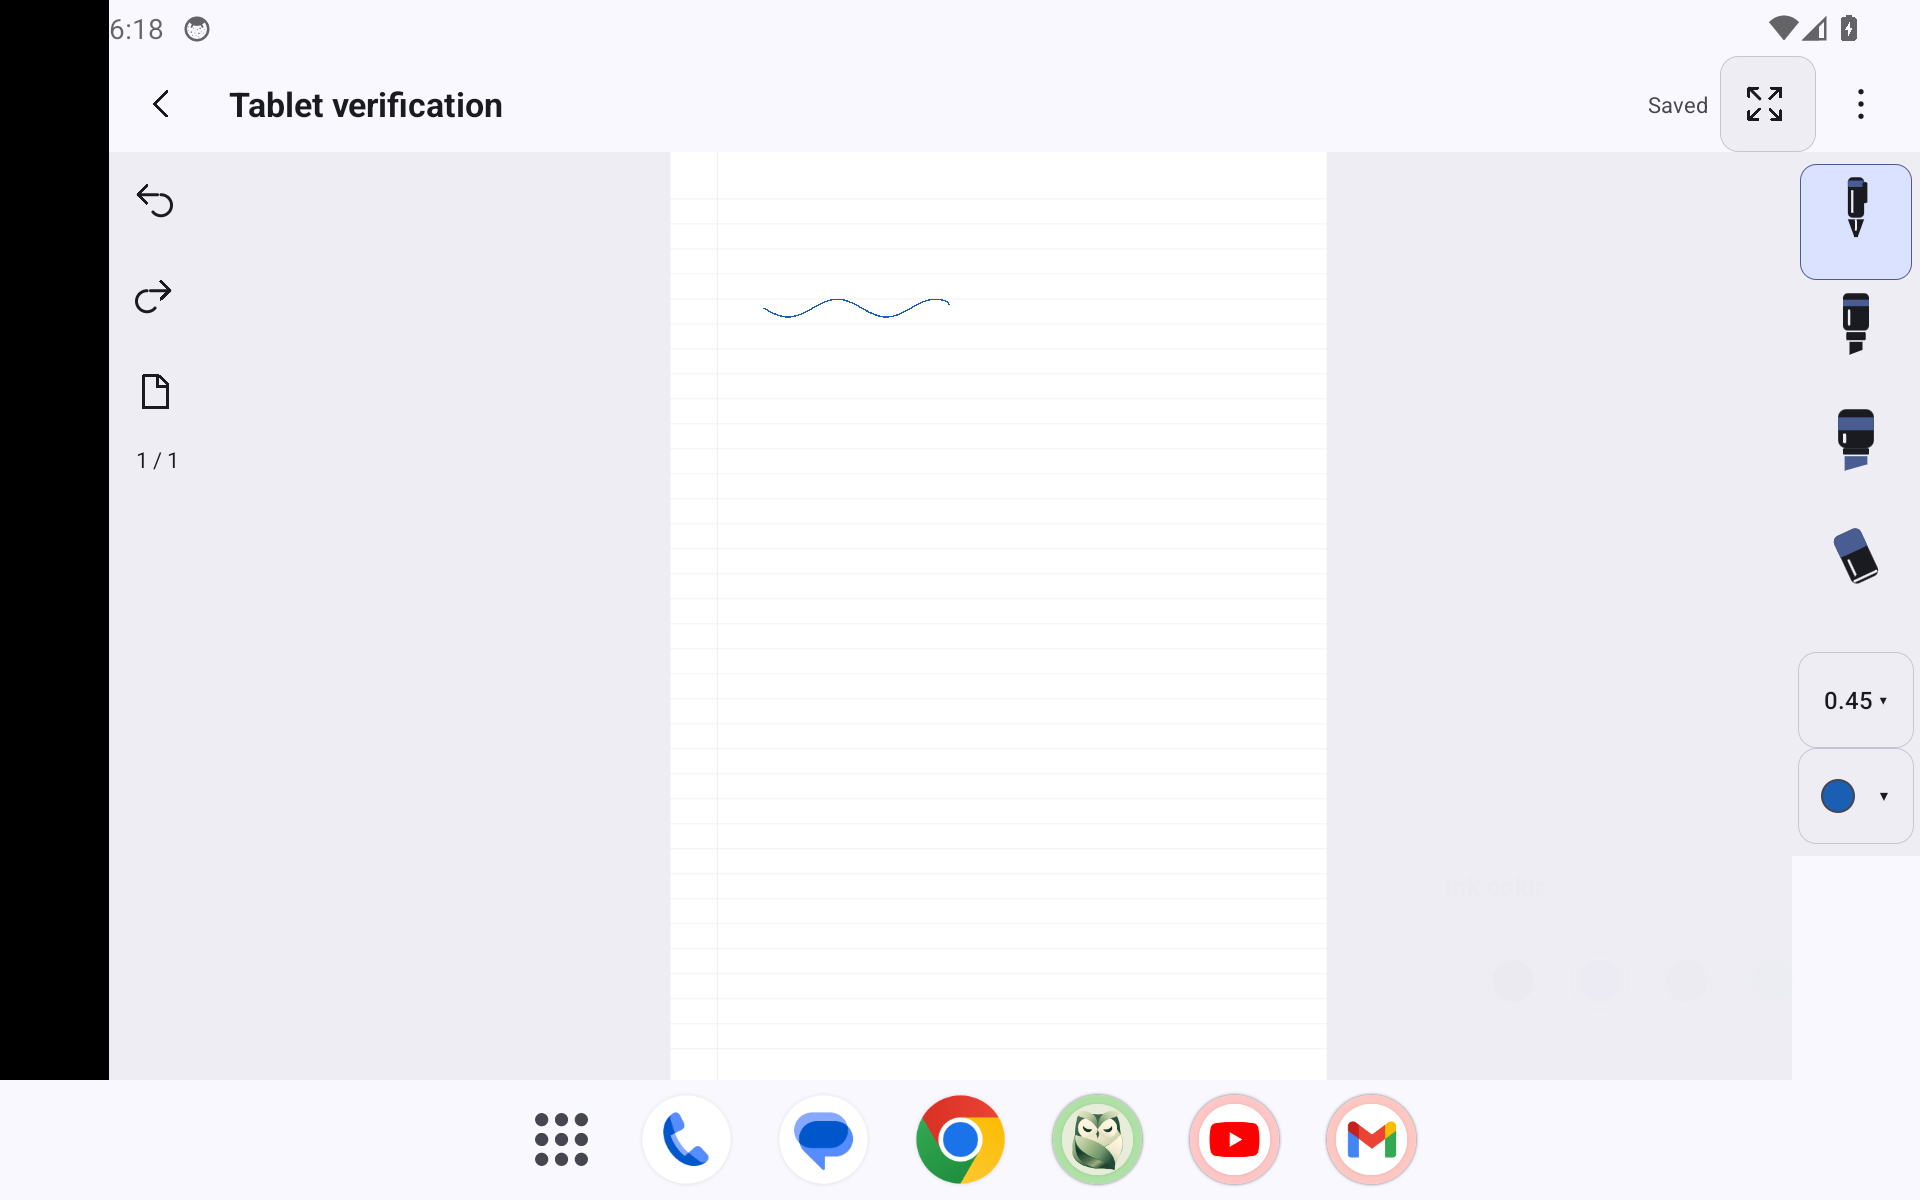
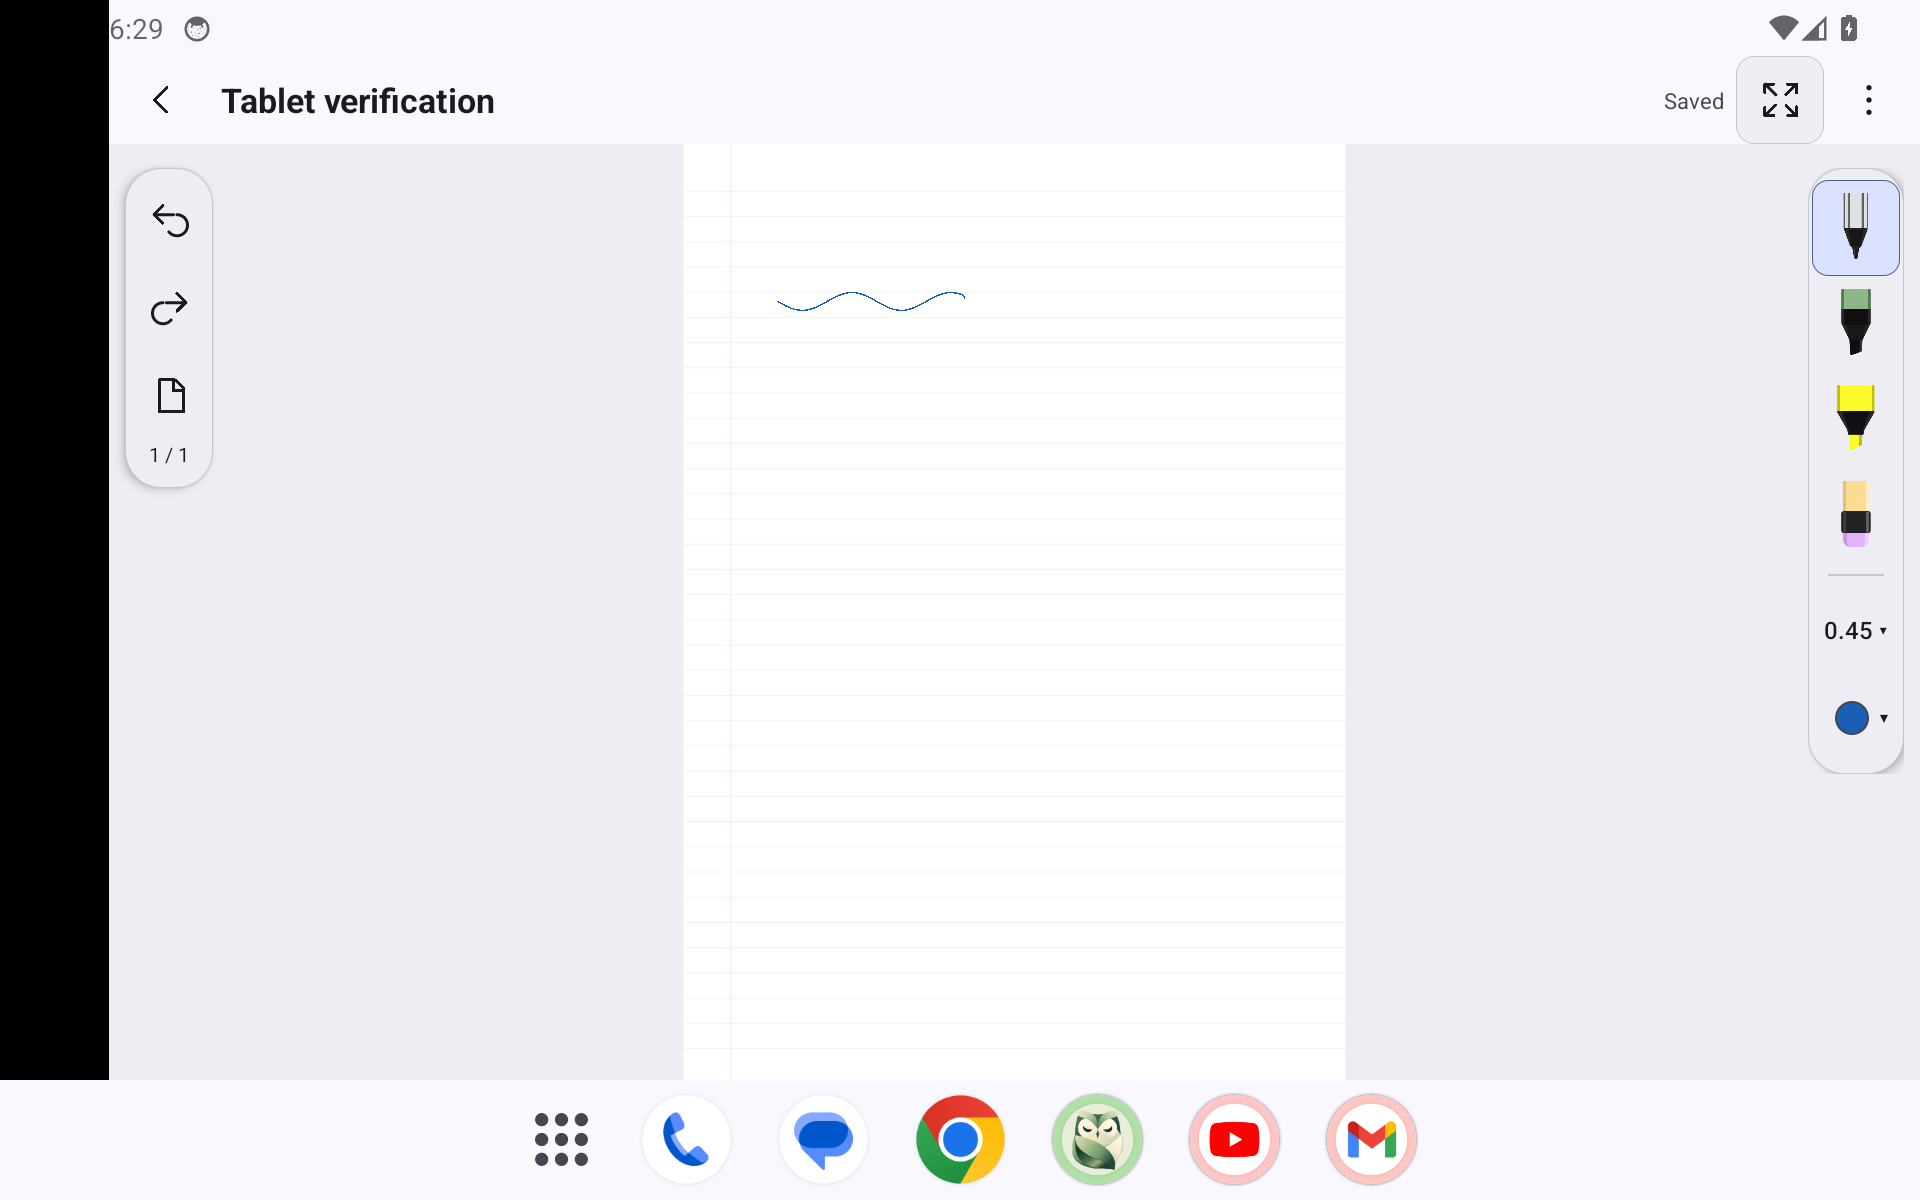
Use generated tool tips in compact floating trays

diff --git a/app/src/main/java/com/weave/notebook/ui/EditorActivity.kt b/app/src/main/java/com/weave/notebook/ui/EditorActivity.kt
@@ -110,24 +110,32 @@ class EditorActivity: AppCompatActivity() {
         header.addView(sideAction(if(fullscreen)"Exit fullscreen" else "Fullscreen") {toggleFullscreen()})
         header.addView(sideAction("⋮") {moreOptions()})
         root.addView(header)
-        val workspace=NativeUi.row(this).apply {gravity=Gravity.TOP}
-        val left=NativeUi.column(this).apply {gravity=Gravity.CENTER_HORIZONTAL;setBackgroundColor(NativeUi.SURFACE)}
+        val workspace=FrameLayout(this)
+        canvas=InkCanvasView(this)
+        workspace.addView(canvas,FrameLayout.LayoutParams(-1,-1))
+        val left=NativeUi.column(this).apply {
+            gravity=Gravity.CENTER_HORIZONTAL;setPadding(0,dp(4),0,dp(4))
+            background=NativeUi.rounded(NativeUi.SURFACE,dp(18).toFloat(),NativeUi.LINE);elevation=dp(3).toFloat()
+        }
         undo=sideAction("↶ Undo") {undo()};redo=sideAction("↷ Redo") {redo()}
         left.addView(undo);left.addView(redo)
         left.addView(sideAction("Pages") {pagesExpanded=!pagesExpanded;pageScroll.visibility=if(pagesExpanded)View.VISIBLE else View.GONE})
-        pageLabel=NativeUi.text(this,"",11f).apply {gravity=Gravity.CENTER;setPadding(0,dp(2),0,dp(8))}
+        pageLabel=NativeUi.text(this,"",10f).apply {gravity=Gravity.CENTER;setPadding(0,0,0,dp(6))}
         left.addView(pageLabel)
-        workspace.addView(left,LinearLayout.LayoutParams(dp(48),-1))
+        workspace.addView(left,FrameLayout.LayoutParams(dp(44),-2,Gravity.TOP or Gravity.START).apply {leftMargin=dp(8);topMargin=dp(12)})
         pageRail=NativeUi.column(this).apply {setPadding(dp(6),dp(6),dp(6),dp(6))}
-        pageScroll=ScrollView(this).apply {addView(pageRail);setBackgroundColor(NativeUi.SURFACE);visibility=if(pagesExpanded)View.VISIBLE else View.GONE}
-        workspace.addView(pageScroll,LinearLayout.LayoutParams(dp(100),-1))
-        canvas=InkCanvasView(this)
-        workspace.addView(canvas,LinearLayout.LayoutParams(0,-1,1f))
+        pageScroll=ScrollView(this).apply {addView(pageRail);background=NativeUi.rounded(NativeUi.SURFACE,dp(12).toFloat(),NativeUi.LINE);elevation=dp(3).toFloat();visibility=if(pagesExpanded)View.VISIBLE else View.GONE}
+        workspace.addView(pageScroll,FrameLayout.LayoutParams(dp(100),-1,Gravity.TOP or Gravity.START).apply {leftMargin=dp(58);topMargin=dp(12);bottomMargin=dp(12)})
         tools=NativeUi.column(this).apply {gravity=Gravity.CENTER_HORIZONTAL}
         options=NativeUi.column(this).apply {gravity=Gravity.CENTER_HORIZONTAL}
-        val right=NativeUi.column(this).apply {gravity=Gravity.CENTER_HORIZONTAL;setPadding(0,dp(6),0,dp(6));setBackgroundColor(NativeUi.SURFACE)}
-        right.addView(tools);right.addView(View(this),LinearLayout.LayoutParams(-1,dp(12)));right.addView(options)
-        workspace.addView(ScrollView(this).apply {isVerticalScrollBarEnabled=false;addView(right)},LinearLayout.LayoutParams(dp(64),-1))
+        val right=NativeUi.column(this).apply {
+            gravity=Gravity.CENTER_HORIZONTAL;setPadding(dp(2),dp(6),dp(2),dp(6))
+            background=NativeUi.rounded(NativeUi.SURFACE,dp(18).toFloat(),NativeUi.LINE);elevation=dp(3).toFloat()
+        }
+        right.addView(tools)
+        right.addView(View(this).apply {setBackgroundColor(NativeUi.LINE)},LinearLayout.LayoutParams(dp(28),dp(1)).apply {topMargin=dp(5);bottomMargin=dp(5)})
+        right.addView(options)
+        workspace.addView(ScrollView(this).apply {isVerticalScrollBarEnabled=false;clipToPadding=false;addView(right)},FrameLayout.LayoutParams(dp(48),-2,Gravity.TOP or Gravity.END).apply {rightMargin=dp(8);topMargin=dp(12);bottomMargin=dp(12)})
         root.addView(workspace,LinearLayout.LayoutParams(-1,0,1f))
         stripBox=NativeUi.column(this).apply {background=NativeUi.rounded(NativeUi.SURFACE);visibility=if(stripVisible) View.VISIBLE else View.GONE}
         val stripActions=NativeUi.row(this)
@@ -168,7 +176,7 @@ class EditorActivity: AppCompatActivity() {
         tools.removeAllViews()
         ToolKind.entries.filter {it!=ToolKind.HAND}.forEach { t->
             val label=when(t) {ToolKind.PEN->"Pen";ToolKind.MARKER->"Marker";ToolKind.HIGHLIGHTER->"Highlighter";ToolKind.ERASER->"Eraser";ToolKind.HAND->"Hand"}
-            tools.addView(NativeUi.tool(this,label,t==tool) {selectTool(t)}.apply {text="";compoundDrawablePadding=0;layoutParams=LinearLayout.LayoutParams(dp(56),dp(58));setOnLongClickListener {selectTool(t);toolOptions();true}})
+            tools.addView(NativeUi.tool(this,label,t==tool) {selectTool(t)}.apply {text="";compoundDrawablePadding=0;layoutParams=LinearLayout.LayoutParams(dp(44),dp(48));setOnLongClickListener {selectTool(t);toolOptions();true}})
         }
         brush=when(tool) {ToolKind.MARKER->BrushKind.MARKER;ToolKind.HIGHLIGHTER->BrushKind.HIGHLIGHTER;ToolKind.ERASER->BrushKind.ERASER;else->BrushKind.PEN}
         strokeWidth=prefs.getFloat("width.$brush",BrushCatalog.defaultWidth(brush))
@@ -176,7 +184,7 @@ class EditorActivity: AppCompatActivity() {
         options.removeAllViews()
         options.addView(NativeUi.button(this,"${formatWidth(strokeWidth)} ▾") {toolOptions()}.apply {
             contentDescription="Thickness, ${formatWidth(strokeWidth)} millimetres";textSize=12f;setPadding(0,0,0,0)
-            layoutParams=LinearLayout.LayoutParams(dp(58),dp(48));tooltipText="Thickness"
+            background=android.graphics.drawable.ColorDrawable(Color.TRANSPARENT);layoutParams=LinearLayout.LayoutParams(dp(44),dp(44));tooltipText="Thickness"
         })
         if(brush!=BrushKind.ERASER) options.addView(NativeUi.button(this,"▾") {colorOptions()}.apply {
             contentDescription="Ink color";textSize=14f;setPadding(dp(8),0,dp(4),0)
@@ -190,7 +198,7 @@ class EditorActivity: AppCompatActivity() {
                 @Deprecated("Deprecated in Android") override fun getOpacity()=android.graphics.PixelFormat.TRANSLUCENT
             }.apply {setBounds(0,0,dp(24),dp(24))}
             setCompoundDrawables(chip,null,null,null);compoundDrawablePadding=0
-            layoutParams=LinearLayout.LayoutParams(dp(58),dp(48));tooltipText="Ink color"
+            background=android.graphics.drawable.ColorDrawable(Color.TRANSPARENT);layoutParams=LinearLayout.LayoutParams(dp(44),dp(44));tooltipText="Ink color"
         })
         applyTool()
     }
@@ -272,7 +280,7 @@ class EditorActivity: AppCompatActivity() {
         };dialog.show()
     }
     private fun viewChanged() {canvas.invalidate();rememberViewport()}
-    private fun compact(button:Button):Button = button.apply {text="";compoundDrawablePadding=0;setPadding(dp(12),0,dp(12),0);layoutParams=LinearLayout.LayoutParams(dp(48),dp(48))}
+    private fun compact(button:Button):Button = button.apply {text="";compoundDrawablePadding=0;setPadding(dp(12),0,dp(12),0);layoutParams=LinearLayout.LayoutParams(dp(44),dp(44))}
     private fun sideAction(label:String,click:()->Unit)=compact(NativeUi.button(this,label,click=click))
     private fun toggleFullscreen() {
         canvas.cancelWork();strip.cancelWork();rememberViewport();saveGuard()
@@ -332,7 +340,7 @@ class EditorActivity: AppCompatActivity() {
             row.contentDescription="Width ${formatWidth(w)} mm";row.isSelected=w==strokeWidth
             row.setOnClickListener {prefs.edit().putFloat("width.$brush",w).apply();renderTools();dialog.dismiss()}
             content.addView(row,LinearLayout.LayoutParams(-1,dp(52)).apply {bottomMargin=dp(4)})
-        };dialog.showAsDropDown(options,dp(58)-dp(260),0,Gravity.START)
+        };dialog.showAsDropDown(options,dp(44)-dp(260),0,Gravity.START)
     }
     private fun colorOptions() {
         canvas.cancelWork();strip.cancelWork()
@@ -341,7 +349,7 @@ class EditorActivity: AppCompatActivity() {
         val row=NativeUi.row(this).apply {gravity=Gravity.CENTER;setPadding(dp(16),dp(16),dp(16),dp(16))}
         val dialog=palette("Ink color",row)
         colors.forEachIndexed {i,c->row.addView(NativeUi.dot(this,names[i],c,12,c==color) {prefs.edit().putInt("color.$brush",c).apply();renderTools();dialog.dismiss()})}
-        dialog.showAsDropDown(options,dp(58)-dp(260),0,Gravity.START)
+        dialog.showAsDropDown(options,dp(44)-dp(260),0,Gravity.START)
     }
     private fun palette(title:String,content:View):PopupWindow {
         val panel=NativeUi.column(this).apply {

diff --git a/app/src/main/java/com/weave/notebook/ui/NativeUi.kt b/app/src/main/java/com/weave/notebook/ui/NativeUi.kt
@@ -77,7 +77,12 @@ object NativeUi {
     }
     fun tool(c:Context,label:String,selected:Boolean,click:()->Unit)=button(c,label,selected,click).apply {
         text=label;textSize=if(c.resources.configuration.screenWidthDp<700)9f else 10f;maxLines=1;setPadding(c.dp(1),c.dp(5),c.dp(1),c.dp(4))
-        val icon=if(label in setOf("Pen","Marker","Highlighter","Eraser")) WritingToolDrawable(label,c.dp(26)).apply {setBounds(0,0,c.dp(26),c.dp(34))}
+        val icon=if(label in setOf("Pen","Marker","Highlighter","Eraser")) androidx.core.content.ContextCompat.getDrawable(c,when(label) {
+            "Pen"->com.weave.notebook.R.drawable.writing_pen
+            "Marker"->com.weave.notebook.R.drawable.writing_marker
+            "Highlighter"->com.weave.notebook.R.drawable.writing_highlighter
+            else->com.weave.notebook.R.drawable.writing_eraser
+        })!!.mutate().apply {setBounds(0,0,c.dp(26),c.dp(36))}
             else LineIcon(label,TEXT,c.dp(25)).apply {setBounds(0,0,c.dp(25),c.dp(25))}
         setCompoundDrawables(null,icon,null,null);compoundDrawablePadding=c.dp(3)
         background=rounded(if(selected)SELECTED else Color.TRANSPARENT,c.dp(8).toFloat(),if(selected)TEAL else Color.TRANSPARENT)

diff --git a/app/src/androidTest/java/com/weave/notebook/DeviceAcceptanceTest.kt b/app/src/androidTest/java/com/weave/notebook/DeviceAcceptanceTest.kt
@@ -36,7 +36,7 @@ class DeviceAcceptanceTest {
         inst.waitForIdleSync()
     }
     private fun screenshot(name:String) {
-        inst.waitForIdleSync();Thread.sleep(150)
+        inst.waitForIdleSync();Thread.sleep(450)
         val bitmap=inst.uiAutomation.takeScreenshot();File(context.getExternalFilesDir(null),name).outputStream().use {bitmap.compress(Bitmap.CompressFormat.PNG,100,it)};bitmap.recycle()
     }
     @Test fun tablet_editorUndoRedoRotationAndSavedReopen() {
@@ -112,7 +112,7 @@ class DeviceAcceptanceTest {
             val pen=all.first {it.contentDescription=="Pen"}
             val pos=IntArray(2);pen.getLocationOnScreen(pos)
             val canvasPos=IntArray(2);ink.getLocationOnScreen(canvasPos)
-            assertTrue(pos[0]>=canvasPos[0]+ink.width)
+            assertTrue(pos[0]>=canvasPos[0]+ink.width-(64*context.resources.displayMetrics.density).toInt())
             assertFalse(all.filterIsInstance<TextView>().any {it.text=="Fit" || it.text=="Fullscreen" || it.text=="Pen"})
             val bottom=canvasPos[1]+ink.height
             val navigation=androidx.core.view.ViewCompat.getRootWindowInsets(ink)!!.getInsets(androidx.core.view.WindowInsetsCompat.Type.navigationBars())

diff --git a/docs/COMPACT_EDITOR_PALETTES.md b/docs/COMPACT_EDITOR_PALETTES.md
@@ -6,15 +6,15 @@ Merge order: #25 → #26 → this PR. Base: milestone/26-gesture-fullscreen-edit
 
 - Remove the bottom bar entirely. Fit page remains available in the Notebook menu.
 - Keep icon-only back and fullscreen/exit-fullscreen actions at the top, above the writing area.
-- Right rail: pen, marker, highlighter, eraser, one thickness dropdown, and one color dropdown. Width rows share a consistent layout with numeric millimetres and stroke previews; each tool retains its own physically meaningful size range and default.
-- Left rail: icon-only undo/redo and a page-preview toggle. The preview rail starts collapsed, persists across rotation, and supports tapping a page or holding it for page actions.
-- Themed instrument silhouettes share a common scale; colors use an outlined circular swatch, while thickness uses a numeric dropdown.
+- Right floating tray (48 dp wide): pen, marker, highlighter, eraser, one thickness dropdown, and one color dropdown. Width rows share a consistent layout with numeric millimetres and stroke previews; each tool retains its own physically meaningful size range and default.
+- Left floating utility tray: icon-only undo/redo and a page-preview toggle. The preview rail starts collapsed, overlays the workspace without shrinking or shifting the canvas, persists across rotation, and supports tapping a page or holding it for page actions.
+- Generated transparent tool-tip illustrations match the supplied reference and share a common display scale; colors use an outlined circular swatch, while thickness uses a numeric dropdown.
 - Notebook menu includes paper, export, page actions, fit, optional hold-shape toggle, and smoothing. Paper selection includes native rendered previews. Palm guard / writing-window controls are removed from the menu and legacy palm-guard blocking is disabled.
 - System bar and display-cutout insets are consumed explicitly in both normal and immersive mode, including when transient system bars appear.
 
 ## Visual reference
 
-Apple's Notes drawing guide: https://support.apple.com/en-gb/108919. Uses compact instrument selection with on-demand thickness/color controls as inspiration; all shipped instrument artwork is original native Canvas drawing.
+Apple's Notes drawing guide: https://support.apple.com/en-gb/108919. Uses compact instrument selection with on-demand thickness/color controls as inspiration; tool illustrations are generated with the built-in image_gen tool against the supplied style reference, then packaged locally. Prompts and asset paths are documented in TOOL_ASSET_PROMPTS.md.
 
 ## Distribution
 
@@ -26,3 +26,9 @@ Version code 4, version name 0.4.0-editor. Debug APK retains com.weave.notebook.
 - All 12 Android 14 instrumented checks pass, including actual pen width / eraser dropdown selection, live erase, undo/redo, save/reopen, page collapse, paper previews, export, fullscreen, rotation, and system-inset/canvas-bottom assertions.
 - Thumbnail rule lines retain a minimum screen-pixel weight for legible paper previews; editor/PDF line geometry stays unchanged.
 - Synthetic screenshots and Android 14 test output are under docs/evidence/m27. No user notebook content is included.
+
+## Tablet testing coordination
+
+The owner confirmed another chat was testing another app on the connected TCL tablet. Stopped further tablet automation and installations after that clarification. Final generated-icon / floating-tray build is validated in the dedicated Weave Android 14 emulator; final tablet installation is deferred until the shared device is free. Earlier instrument attempts were interrupted and do not count as a passed final tablet test.
+
+- Additional Android 14 dark-theme editor interaction check passes with the generated assets and floating trays. See editor-dark.png.

diff --git a/docs/TOOL_ASSET_PROMPTS.md b/docs/TOOL_ASSET_PROMPTS.md
@@ -1,0 +1,22 @@
+# Tool palette artwork
+
+Generated with the built-in image_gen tool using the owner's supplied compact tool-tip toolbar image as a **style reference**, not an edit target. The app contains only local PNG assets; image generation is a development step, never an app feature or network dependency.
+
+Final assets: `app/src/main/res/drawable-nodpi/writing_{pen,marker,highlighter,eraser}.png`.
+
+Packaging: preserve generated alpha, trim transparent clearance, downsample with Lanczos, center on a 224 × 304 transparent canvas. Runtime size: 26 × 36 dp. No theme tint is applied to instrument materials; tray, selection, menus, and controls resolve Material theme colors.
+
+## Shared final generation prompt
+
+Use case: stylized-concept. Create a production UI asset for a tablet handwriting toolbar. Input image is STYLE REFERENCE ONLY: reproduce its simple clean small tool-tip visual language, NOT its entire toolbar. Output only ONE compact instrument TIP ICON on actual transparent alpha. Flat graphic illustration with subtle gray edge shading, extremely clean geometry, like the small pen tips in the reference. Do NOT draw a complete real-world pen, do NOT draw a rounded capsule or a product photograph. Short barrel is a rectangular flat-cut top with a nib tapering downward. Front view, vertical, tip points DOWN, centered. Icon occupies 72% of a square canvas's height and 36% width, crisp edges at small 24x36 pixels. No text/letters/numbers/logos, tile, border, background, shadow or extra objects.
+
+Append one subject per call:
+
+- Pen: ONE fine PEN TIP: light silver rectangular short barrel with two thin vertical gray grooves, black tapered collar, tiny black fine nib. Match the selected silver tool shape in reference, without any letters.
+- Marker: ONE broad MARKER TIP: black rectangular short barrel with a muted sage-green top color band, black tapered collar, broad black felt nib. Match the reference's simple marker silhouette.
+- Highlighter: ONE HIGHLIGHTER TIP: bright soft yellow rectangular short wide barrel, black tapered collar, yellow angled flat chisel nib. Match the rightmost highlighter from the reference.
+- Eraser: ONE ERASER TOOL: cream rectangular short eraser with black graphite sleeve around middle and exposed pale lilac rubber at the bottom. Match the leftmost eraser in the reference. Bottom is flat rounded rubber, not a pointed nib.
+
+## Eraser cleanup prompt
+
+Use case: background-extraction. Edit target is this eraser tool icon. Remove ALL background, ALL shadow, ALL glow, ALL halo around the eraser. Keep ONLY the eraser instrument silhouette (cream flat rectangular top, black sleeve middle, lilac rounded rubber bottom), preserving its clean illustration. Output genuine transparent alpha outside the exact eraser edge, including between object and canvas border. No black background, no white background, no gradient matte, no checkerboard. No drop shadow or rim glow. Crisp antialiased contour. Center the isolated eraser on square transparent canvas. No other objects or changes.
